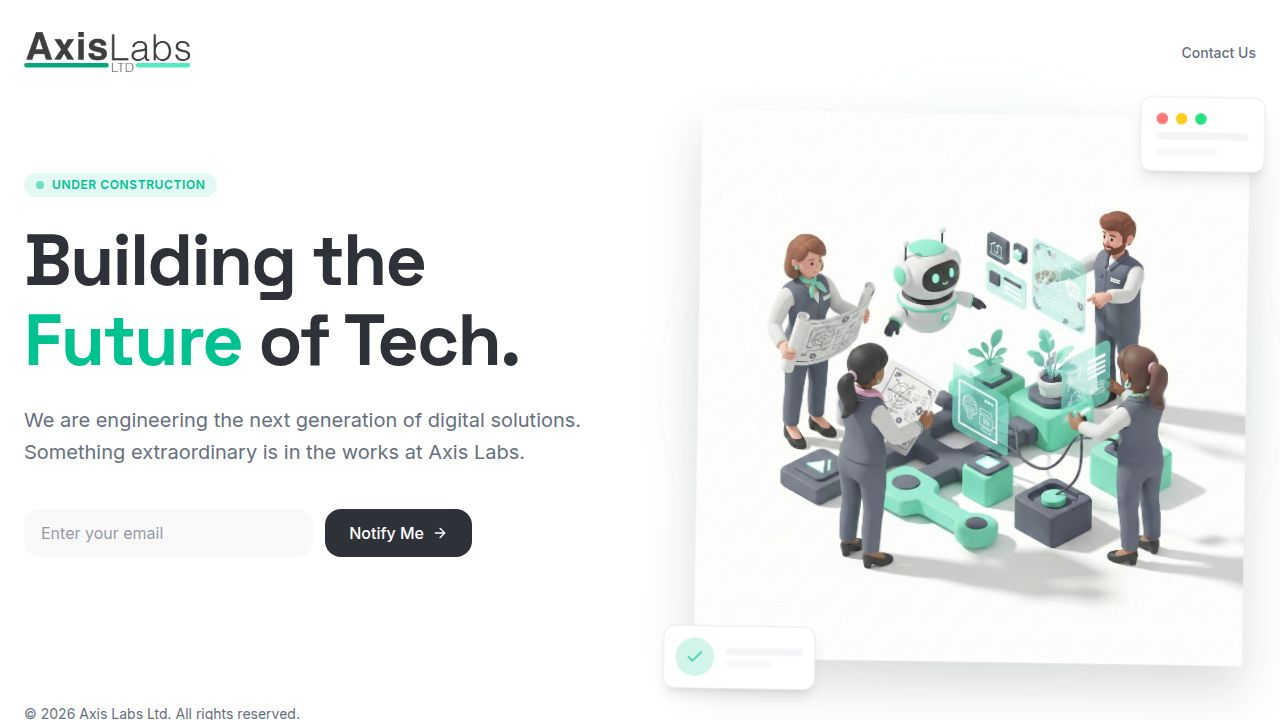
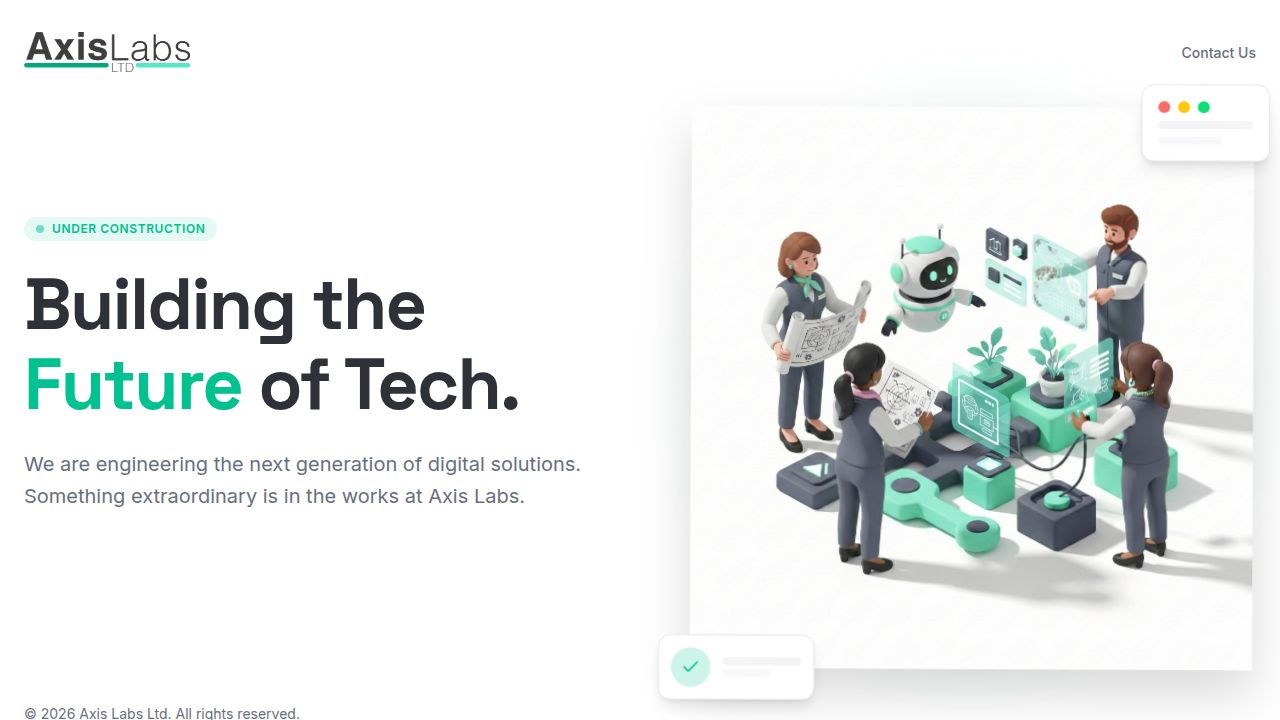
Hide the email subscription form and input box
Temporarily comment out the email subscription form and input elements in the landing page component.

Replit-Commit-Author: Agent
Replit-Commit-Session-Id: a15fb095-aa1f-4c41-9e5f-5dd304af117a
Replit-Commit-Checkpoint-Type: full_checkpoint
Replit-Commit-Event-Id: 30694075-53e3-4d3f-a264-f0d71bcacb53
Replit-Commit-Screenshot-Url: https://storage.googleapis.com/screenshot-production-us-central1/3f175f55-4371-496f-83f3-2bcb67ea2550/a15fb095-aa1f-4c41-9e5f-5dd304af117a/PtPe2Am
Replit-Helium-Checkpoint-Created: true

diff --git a/client/src/pages/landing.tsx b/client/src/pages/landing.tsx
@@ -71,7 +71,7 @@ export default function LandingPage() {
             Something extraordinary is in the works at Axis Labs.
           </p>
 
-          <form onSubmit={handleSubmit} className="flex flex-col sm:flex-row gap-3 max-w-md">
+          {/* <form onSubmit={handleSubmit} className="flex flex-col sm:flex-row gap-3 max-w-md">
             <div className="relative flex-1">
               <input
                 type="email"
@@ -101,7 +101,7 @@ export default function LandingPage() {
                 </>
               )}
             </button>
-          </form>
+          </form> */}
 
           <div className="mt-12 flex items-center gap-8 text-muted-foreground/50 grayscale hover:grayscale-0 transition-all duration-500 opacity-60">
              {/* Tech badges or similar placeholder logos could go here */}
